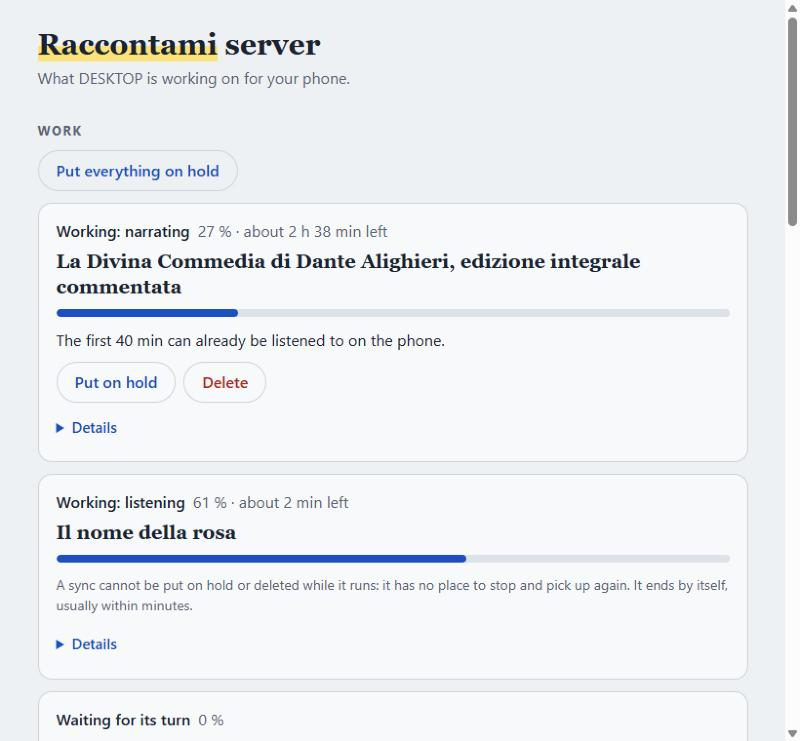
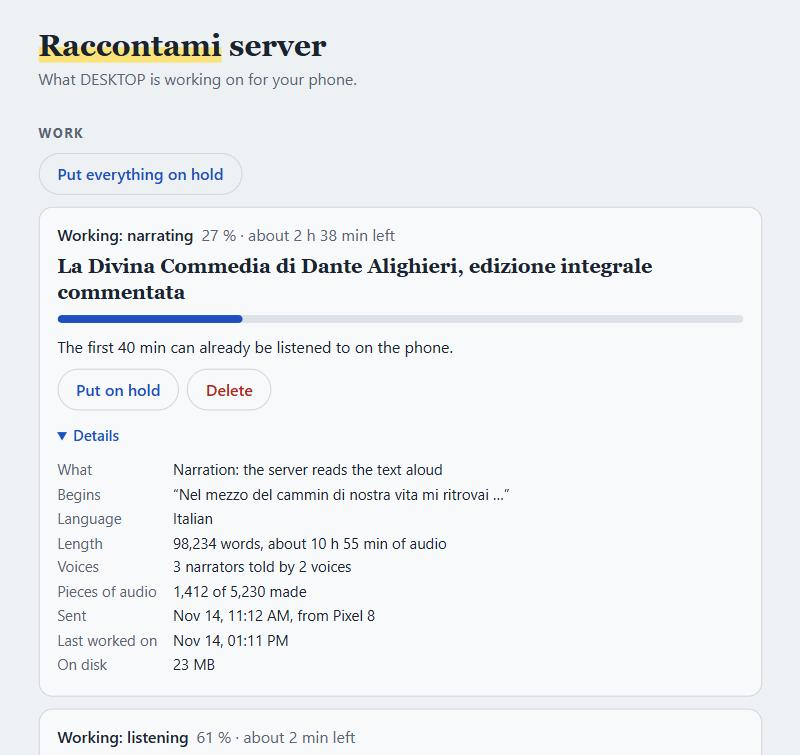
Failure hints only from whole error messages; a failure always shows a reason; the README picture as a desktop shows the page

diff --git a/raccontami_sync/page.html b/raccontami_sync/page.html
@@ -82,7 +82,8 @@
                aria-describedby="tokenHelp tokenError">
         <label class="check"><input id="showToken" type="checkbox"> Show what I type</label>
         <p class="muted small" id="tokenHelp" style="margin-top:8px">Shown in the server's window when it starts. Without a
-          window: the icon next to the clock, then Connect the phone, where it can be copied. It is kept in this browser only.</p>
+          window: the icon next to the clock, then Connect the phone, where it can be copied. It is also saved in
+          server-data/token.txt on the server. It is kept in this browser only.</p>
         <p class="error" id="tokenError" role="alert" hidden></p>
         <div class="row" style="margin-top:14px"><button class="primary" type="submit">Open</button></div>
       </form>
@@ -311,7 +312,10 @@ function jobCard(j) {
   ready.hidden = true;
   card.append(ready);
   // what went wrong in plain words, when the server knows; the error itself stays with the facts
-  if (j.state === "failed" && j.errorHint) card.append(el("p", j.errorHint, "hint"));
+  // (without a known cause, the start of what the server reported: a failure is never shown without a reason)
+  if (j.state === "failed" && (j.errorHint || j.error)) {
+    card.append(el("p", j.errorHint || "The server reported: " + (j.error.length > 220 ? j.error.slice(0, 220) + " …" : j.error), "hint"));
+  }
   const buttons = el("div", null, "row");
   const at = "/v1/jobs/" + encodeURIComponent(j.id);
   if (j.can.continue) buttons.append(actionButton("Continue", "primary", () => api("POST", at + "/continue")));
@@ -369,8 +373,8 @@ function showDone(list) {
     if (j.can.delete) {
       const b = actionButton("Delete", "danger", async () => {
         if (confirm("Delete the finished " + (narration ? "narration" : "sync") + " “" + nameOf(j) + "” from this computer?\n\n"
-                    + "The story stays on the phone if the phone has already downloaded it. If it has not, or if the "
-                    + "same story is sent again, the work starts over.\n\nThis cannot be undone.")) {
+                    + "The story stays on the phone if the phone has already downloaded it. If it has not, it has "
+                    + "to be sent again from the app, and the work is done again.\n\nThis cannot be undone.")) {
           await api("DELETE", "/v1/jobs/" + encodeURIComponent(j.id));
         }
       });

diff --git a/raccontami_sync/unfinished.py b/raccontami_sync/unfinished.py
@@ -49,19 +49,23 @@ def folder_bytes(job: Path) -> int:
 _CAUSES = (
     (("out of memory",), "The graphics card ran out of memory. Close what else is using it (a game, another "
                          "AI program) and continue; on a card under 12 GB, set RACCONTAMI_ONE_JOB=1 in settings.txt."),
-    (("no space left", "errno 28", "not enough space"), "The disk is full. Delete finished jobs below, or free space "
-                                                        "on the drive, then continue."),
-    (("ffmpeg", "invalid data found", "could not find codec", "failed to load audio"),
+    (("no space left on device", "errno 28", "not enough space on the disk"),
+     "The disk is full. Delete finished jobs below, or free space on the drive, then continue."),
+    (("failed to load audio", "invalid data found when processing input"),
      "The audio file could not be read. Try it in a player; if it plays, convert it to MP3 or M4A and send it again."),
-    (("cuda", "nvidia", "no kernel image"), "The graphics card or its driver did not answer. Update the NVIDIA driver, "
-                                            "restart the computer, and continue."),
-    (("connection", "timed out", "name resolution", "huggingface"), "A model could not be downloaded. Check the "
-                                                                    "internet connection of this computer and continue."),
+    (("cuda error", "no kernel image is available", "found no nvidia driver", "cuda driver"),
+     "The graphics card or its driver did not answer. Update the NVIDIA driver, restart the computer, and continue."),
+    (("connectionerror", "getaddrinfo failed", "failure in name resolution", "max retries exceeded"),
+     "A model could not be downloaded. Check the internet connection of this computer and continue."),
 )
 
 
 def explain(error: str | None) -> str | None:
-    """A failure in the reader's words, for the causes that have one; None for the rest."""
+    """A failure in the reader's words, for the causes that have one; None for the rest.
+
+    Whole phrases of the error messages themselves, never single words: an error often carries the
+    last lines of a log, and a file path through "torch\\cuda" or "huggingface_hub" says nothing
+    about the cause. A wrong explanation is worse than none."""
     text = (error or "").lower()
     for marks, meaning in _CAUSES:
         if any(mark in text for mark in marks):

diff --git a/tests/test_unfinished.py b/tests/test_unfinished.py
@@ -217,6 +217,13 @@ class PageFactsTest(unittest.TestCase):
     def test_an_unknown_failure_has_no_explanation(self):
         self.assertIsNone(u.explain("ValueError: something nobody has seen"))
 
+    def test_paths_in_the_last_lines_of_a_log_are_not_taken_for_a_cause(self):
+        tail = ("RuntimeError: The voice stopped with an error: "
+                'File "F:\\raccontami\\tts\\env-a\\Lib\\site-packages\\torch\\cuda\\__init__.py", line 12, in f | '
+                'File "F:\\raccontami\\tts\\env-a\\Lib\\site-packages\\huggingface_hub\\file_download.py", line 9 | '
+                "KeyError: 'speaker' (ffmpeg and nvidia are only words here)")
+        self.assertIsNone(u.explain(tail))
+
     def test_no_error_has_no_explanation(self):
         self.assertIsNone(u.explain(None))
 

diff --git a/README.md b/README.md
@@ -28,9 +28,15 @@ same steps but have not been run on real hardware yet; reports welcome.
 | Disk | 35 GB | 50 GB on a fast drive, plus room for finished work (see [Disk space](#disk-space)) |
 | Software | Python 3.12, ffmpeg, git | |
 
-On Windows, the three programs install with `winget install Python.Python.3.12 Gyan.FFmpeg Git.Git`;
-open a new terminal afterwards. The installer checks the driver, the free space and the programs
-before it downloads anything.
+On Windows, the three programs install from PowerShell; open a new terminal afterwards:
+
+```powershell
+winget install Python.Python.3.12
+winget install Gyan.FFmpeg
+winget install Git.Git
+```
+
+The installer checks the driver, the free space, Python and ffmpeg before it downloads anything.
 
 ## Install
 
